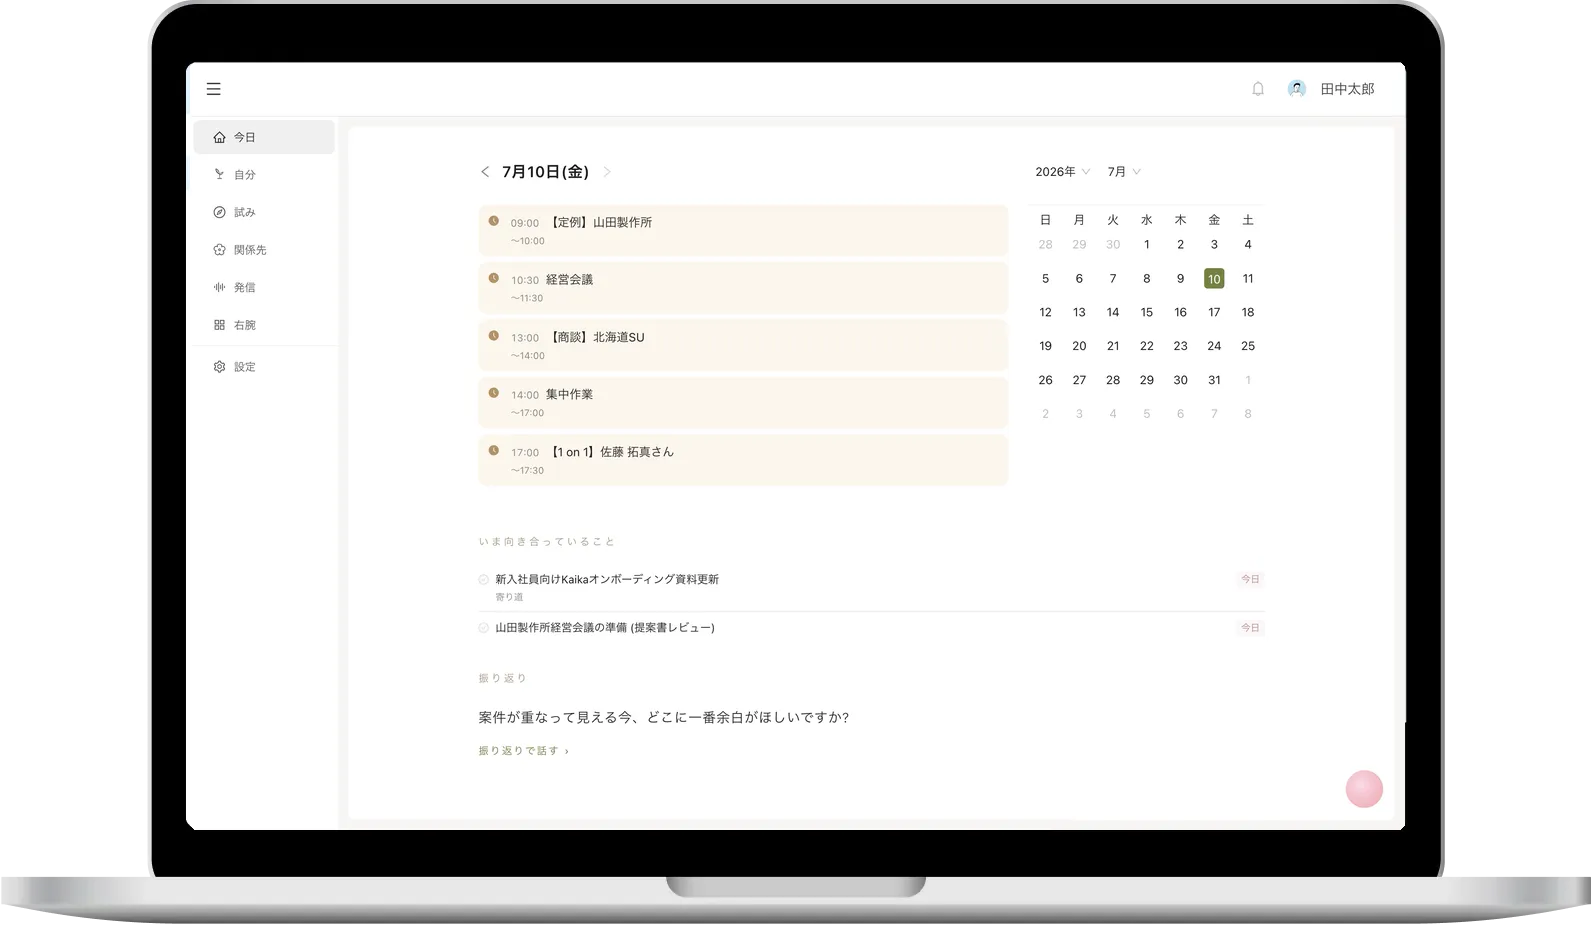
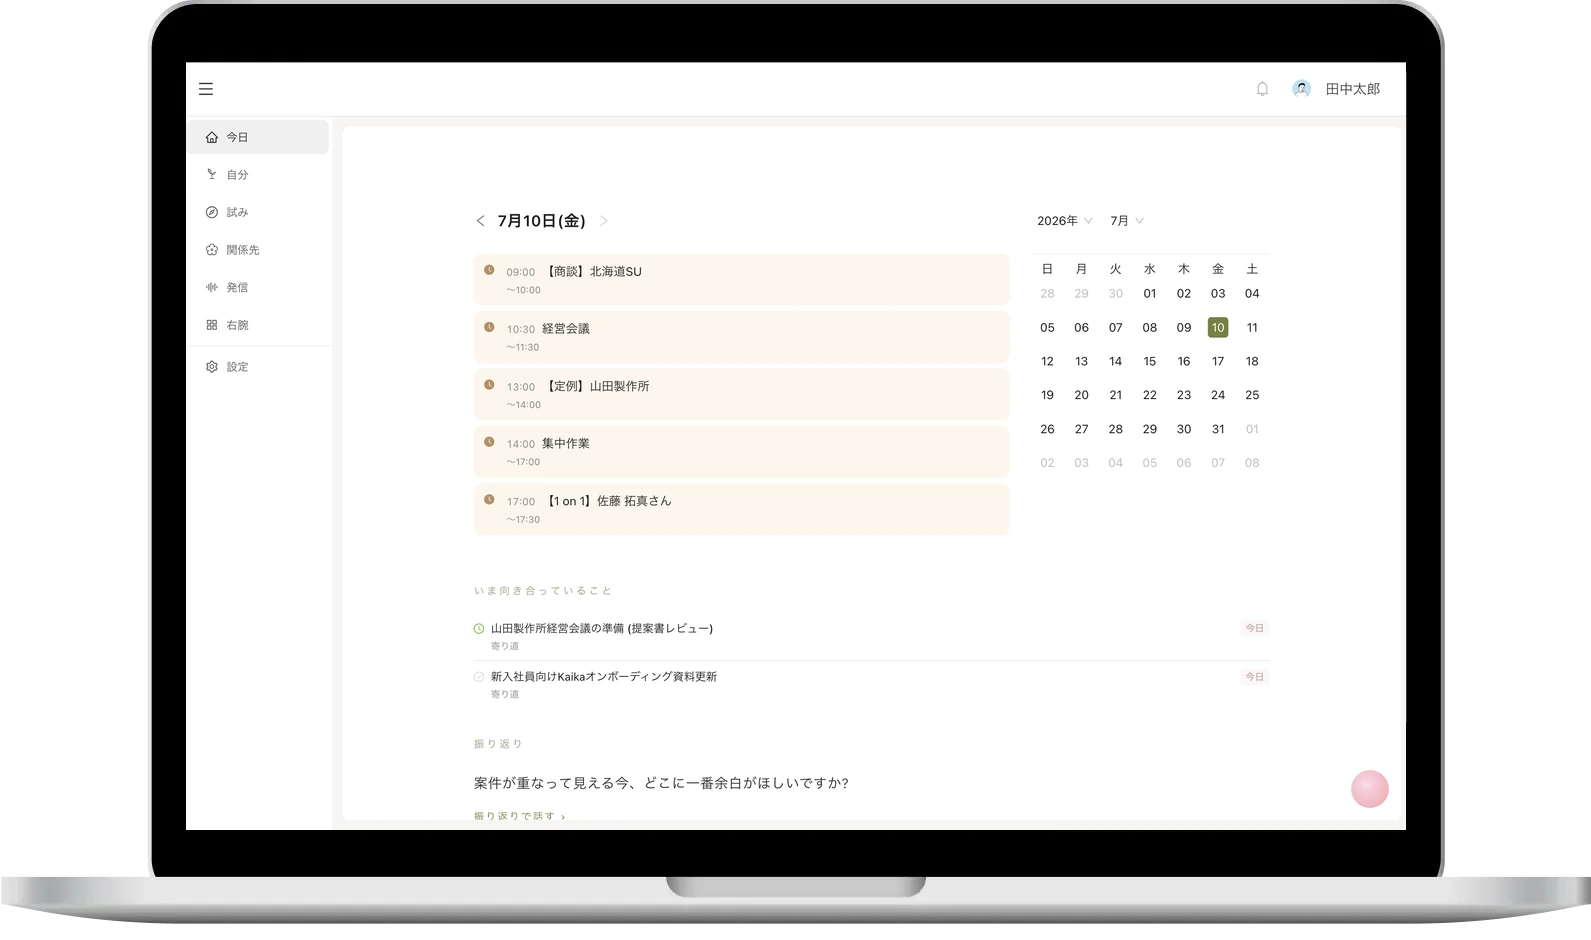
feat(img): PC mockup の 中身 を 最新 の 画面 に 差し替え
- トップ ( /) の laptop = 「今日」 画面 を 最新 に ( home_main.webp)
- Kaikaとは ( /product) の laptop = 「行動」 画面 + 対話 に ( plan_main.webp)
- どちら も マウス カーソル を 除去 ( 周囲 が 白 一色 な の で 背景色 で 塗り 潰し)
- 枠 は 既存 の まま。 画面 領域 ( 186,62)-(1406,830) を 実測 して そこ だ け 置き換え、
  縦横比 の 差 ( 1.588 vs 1.600) は 覆う よう に 拡大 → 中央 切り抜き で 吸収
- product の alt を 実際 の 画面 に 合わせて 更新 ( プラン → 行動)

diff --git a/src/app/product/page.tsx b/src/app/product/page.tsx
@@ -31,7 +31,7 @@ export default function Product() {
               </div>
             </div>
             <div className="fv_image_wrapper">
-              <img src="/img/product/plan_main.webp" alt="Kaikaプラン画面·目標と対話が一つの場で" className="fv_main_image" />
+              <img src="/img/product/plan_main.webp" alt="Kaika行動画面·目標と行動の案を対話で確かめる" className="fv_main_image" />
               <img src="/img/common/logo_brain.webp" alt="." className="fv_main_bg" />
             </div>
             <div className="fv_btn_wrapper u_sp">
